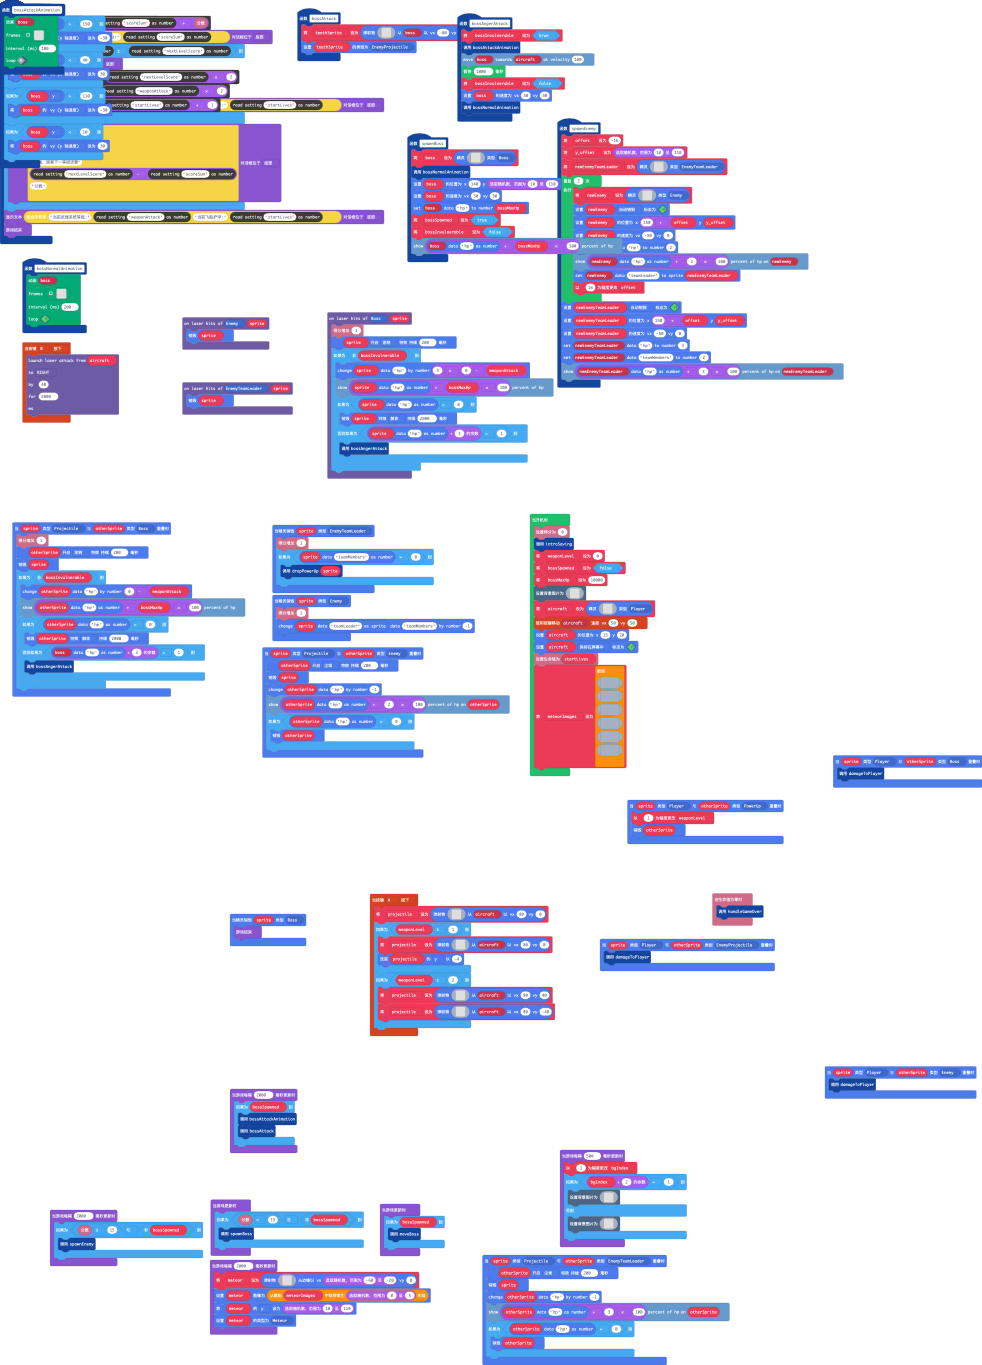
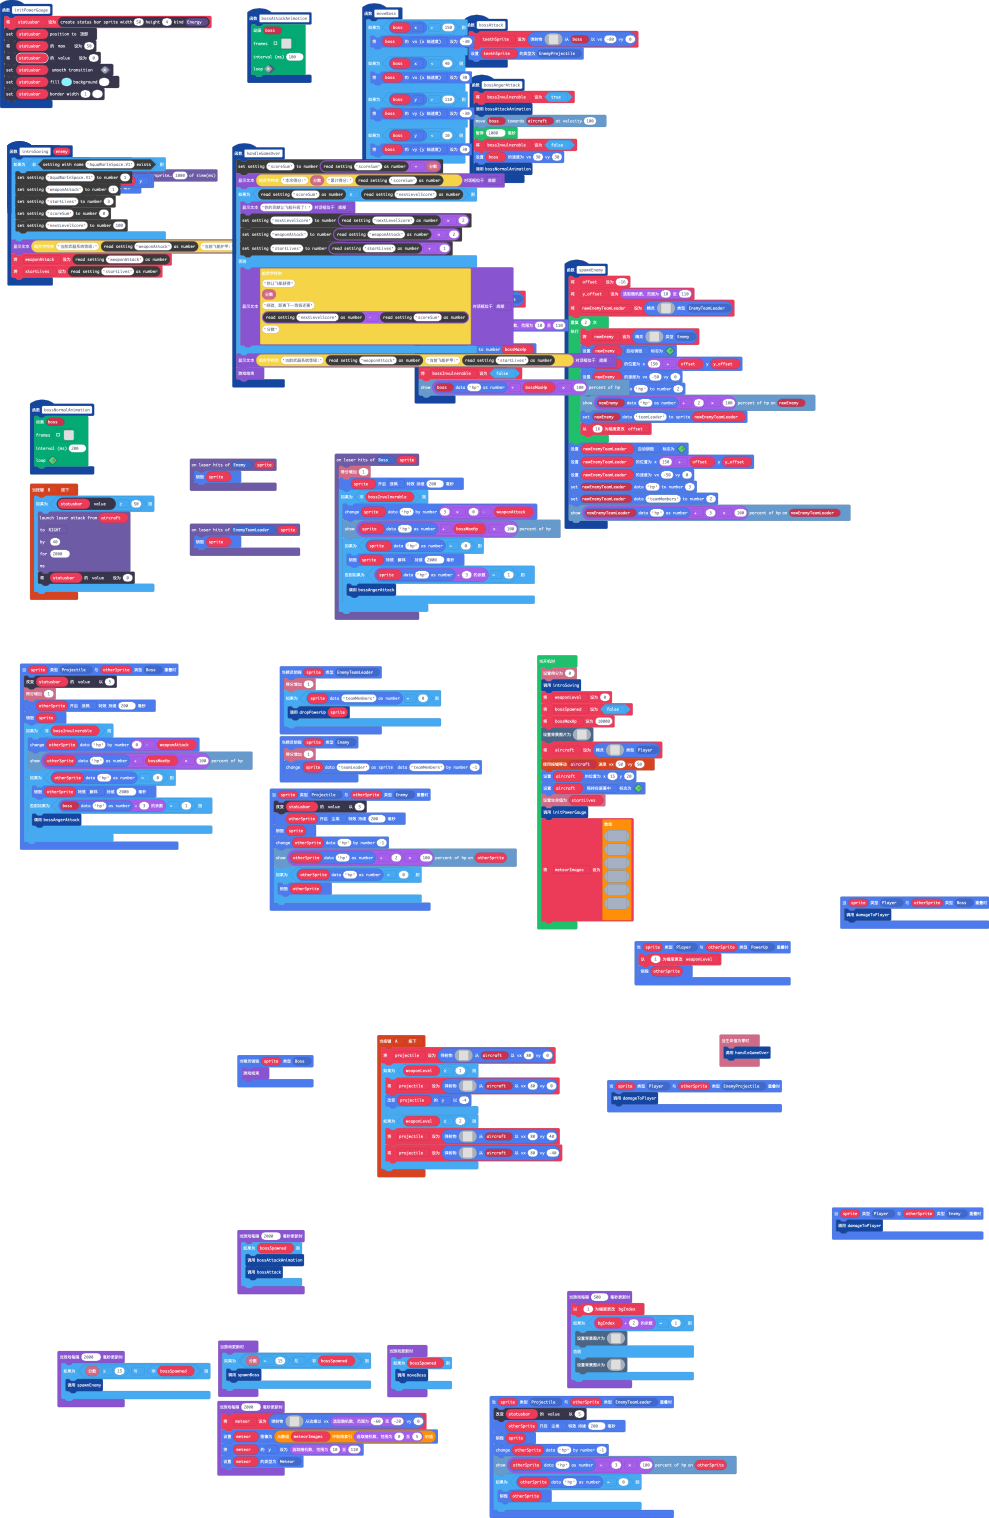
更新了能量槽

diff --git a/main.ts b/main.ts
@@ -102,6 +102,7 @@ function handleGameOver () {
     game.over()
 }
 sprites.onOverlap(SpriteKind.Projectile, SpriteKind.Boss, function (sprite, otherSprite) {
+    statusbar.value += 5
     info.changeScoreBy(1)
     otherSprite.startEffect(effects.spray, 200)
     sprite.destroy()
@@ -116,12 +117,15 @@ sprites.onOverlap(SpriteKind.Projectile, SpriteKind.Boss, function (sprite, othe
     }
 })
 controller.B.onEvent(ControllerButtonEvent.Pressed, function () {
-    attackEffect.laserAttack(
-    aircraft,
-    attackEffect.LaserAttackDirection.RIGHT,
-    40,
-    2000
-    )
+    if (statusbar.value >= 50) {
+        attackEffect.laserAttack(
+        aircraft,
+        attackEffect.LaserAttackDirection.RIGHT,
+        40,
+        2000
+        )
+        statusbar.value = 0
+    }
 })
 sprites.onOverlap(SpriteKind.Player, SpriteKind.PowerUp, function (sprite, otherSprite) {
     weaponLevel += 1
@@ -142,6 +146,7 @@ function moveBoss () {
     }
 }
 sprites.onOverlap(SpriteKind.Projectile, SpriteKind.Enemy, function (sprite, otherSprite) {
+    statusbar.value += 5
     otherSprite.startEffect(effects.ashes, 200)
     sprite.destroy()
     sprites.changeDataNumberBy(otherSprite, "hp", -1)
@@ -347,6 +352,7 @@ function bossAttackAnimation () {
     )
 }
 sprites.onOverlap(SpriteKind.Projectile, SpriteKind.EnemyTeamLeader, function (sprite, otherSprite) {
+    statusbar.value += 5
     otherSprite.startEffect(effects.ashes, 200)
     sprite.destroy()
     sprites.changeDataNumberBy(otherSprite, "hp", -1)
@@ -355,6 +361,15 @@ sprites.onOverlap(SpriteKind.Projectile, SpriteKind.EnemyTeamLeader, function (s
         otherSprite.destroy()
     }
 })
+function initPowerGauge () {
+    statusbar = statusbars.create(50, 4, StatusBarKind.Energy)
+    statusbar.positionDirection(CollisionDirection.Top)
+    statusbar.max = 50
+    statusbar.value = 0
+    statusbar.setStatusBarFlag(StatusBarFlag.SmoothTransition, false)
+    statusbar.setColor(9, 1)
+    statusbar.setBarBorder(1, 1)
+}
 function bossAttack () {
     teethSprite = sprites.createProjectileFromSprite(img`
 . . . . . . . . . . . . . . . . . . . . . . . . . . . . . . . . . . . . 
@@ -554,6 +569,7 @@ let y_offset = 0
 let offset = 0
 let teethSprite: Sprite = null
 let projectile: Sprite = null
+let statusbar: StatusBarSprite = null
 let weaponAttack = 0
 let powerUp: Sprite = null
 let bossInvulnerable = false
@@ -712,6 +728,7 @@ controller.moveSprite(aircraft, 50, 50)
 aircraft.setPosition(15, 20)
 aircraft.setFlag(SpriteFlag.StayInScreen, true)
 info.setLife(startLives)
+initPowerGauge()
 let meteorImages = [sprites.space.spaceSmallAsteroid0, sprites.space.spaceSmallAsteroid1, sprites.space.spaceSmallAsteroid2, sprites.space.spaceAsteroid0, sprites.space.spaceAsteroid1, sprites.space.spaceAsteroid3]
 game.onUpdateInterval(2000, function () {
     if (bossSpawned) {
